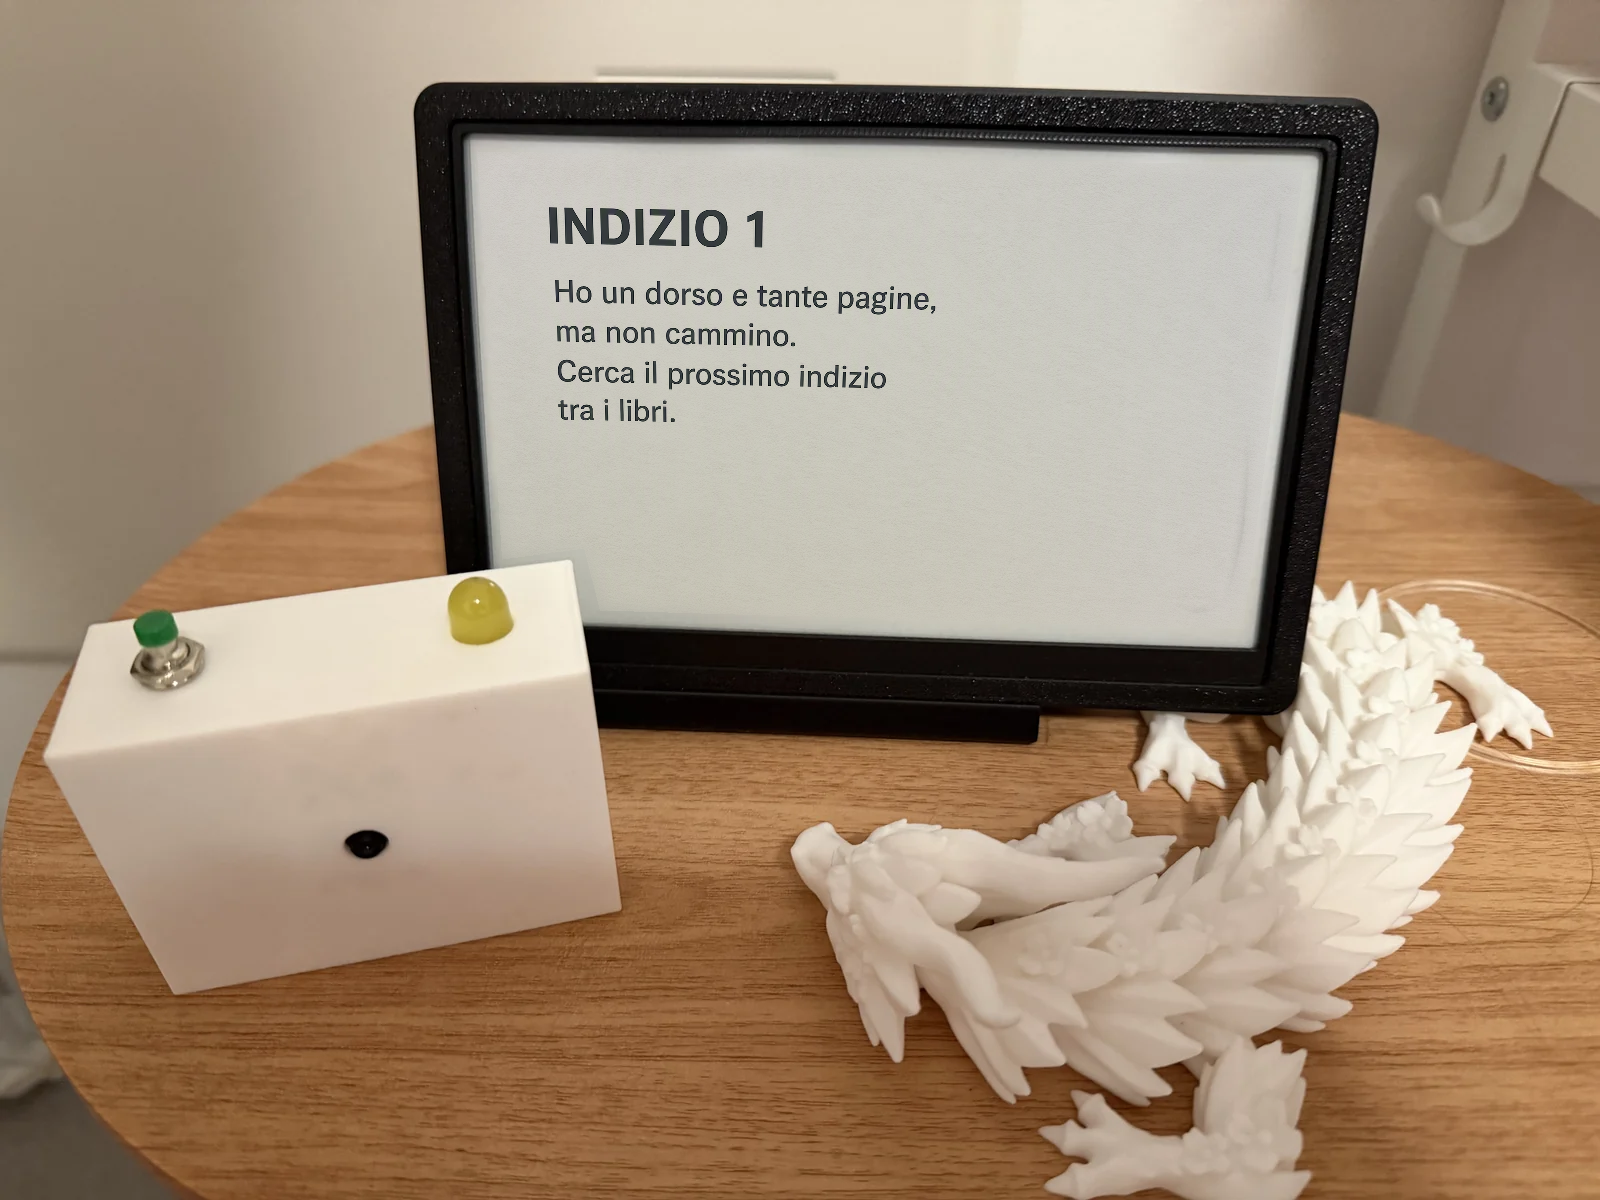
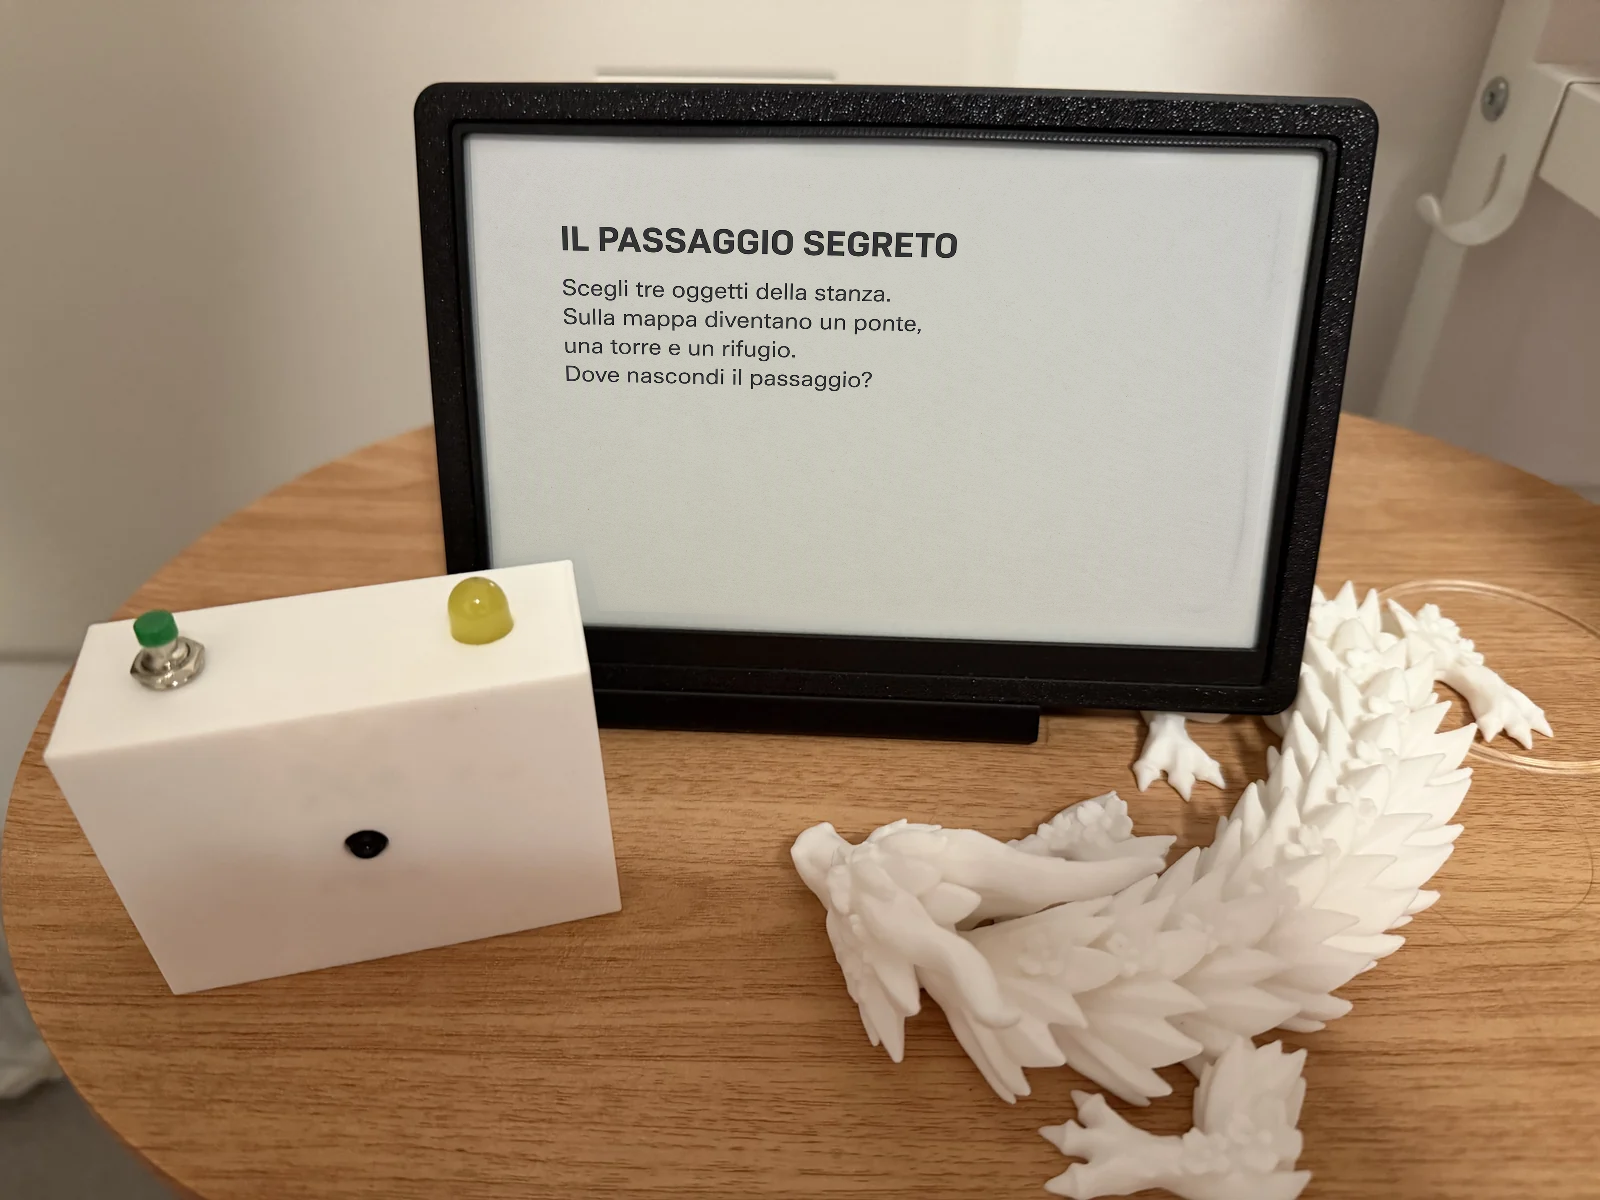
Trim overview repetition and replace illustrative activity

Changed region(s): [[0.3438, 0.1542, 0.5938, 0.37]]

diff --git a/ideas/site-mission-and-camera.md b/ideas/site-mission-and-camera.md
@@ -18,8 +18,12 @@ Source mapping: `20260909_175805466_iOS.HEIC` becomes `camera-prototype-1.webp`;
 
 Later on 10 September, the owner requested swapping the opening photographs. The mission uses `hero.jpg`, showing a poodle on the display. The overview uses the photograph of the camera beside the display and dragon, with its original aspect ratio.
 
-The owner then requested replacing that display's reminder with a game clue through the existing image API. The new `camera-prototype-game.webp` illustrates a clue leading to the books. The original `camera-prototype-3.webp` remains available. Both overview captions disclose the edited screen; the photograph does not document a game running on the device.
+The owner then requested replacing that display's reminder with a game clue through the existing image API. The first `camera-prototype-game.webp` illustrated a clue leading to the books. The original `camera-prototype-3.webp` remains available. The photograph illustrates an activity rather than documenting one running on the device.
 
-The existing Azure OpenAI deployment `gpt-image-2-2026-04-21` produced three candidates. Two masked photograph edits placed text too close to the foreground camera. The third call generated only the flat e-paper content, which was mapped to the screen's perspective and adjusted to its measured background lighting. The calls took 49.9, 46.8 and 22.8 seconds respectively, measured around the SDK call including authentication and client setup. A screen polygon limits the composite. Comparing the decoded final WebP against the original found no changed pixels outside that polygon and changes inside it. The lossless derivative measures 1,099,424 bytes at 1,600 by 1,200 pixels; this encoding preserves the untouched pixels at the cost of a larger download. Visual inspection checked the complete Italian clue and the foreground camera boundary.
+The existing Azure OpenAI deployment `gpt-image-2-2026-04-21` produced three initial candidates. Two masked photograph edits placed text too close to the foreground camera. The third call generated only the flat e-paper content, which was mapped to the screen's perspective and adjusted to its measured background lighting. The calls took 49.9, 46.8 and 22.8 seconds respectively, measured around the SDK call including authentication and client setup. A screen polygon limits the composite. Comparing the decoded first WebP against the original found no changed pixels outside that polygon and changes inside it. That lossless derivative measured 1,099,424 bytes at 1,600 by 1,200 pixels; this encoding preserves the untouched pixels at the cost of a larger download.
+
+The owner requested a further revision on 10 September: remove the illustrative image's provenance caption, reduce repetition in the overview and replace the book riddle. Both overviews now start with the hub's technical role and leave the activity sequence to the numbered steps. The photograph has descriptive alternative text and no caption. Production details remain in this note.
+
+The replacement activity, "Il passaggio segreto", asks the player to choose three objects in the room, turn them into a bridge, a tower and a refuge on a map, and decide where to hide a passage. It offers a spatial and narrative choice instead of an answer supplied by the prompt itself, at the cost of needing a map to draw on. The same image deployment generated the new screen in 23.4 seconds, measured as above. The perspective composite measures 1,101,130 bytes at 1,600 by 1,200 pixels. The outside-screen pixel comparison passed again; visual inspection confirmed the complete text and clear margins.
 
 Run `npm --prefix site run build` and `python site/check-build.py` from the repository root. Check the root language redirect, language switching, mission-to-overview navigation, image enlargement and mobile layout in a browser. Publish through the existing site workflow after committing only this update and verify the public mission and camera section.
